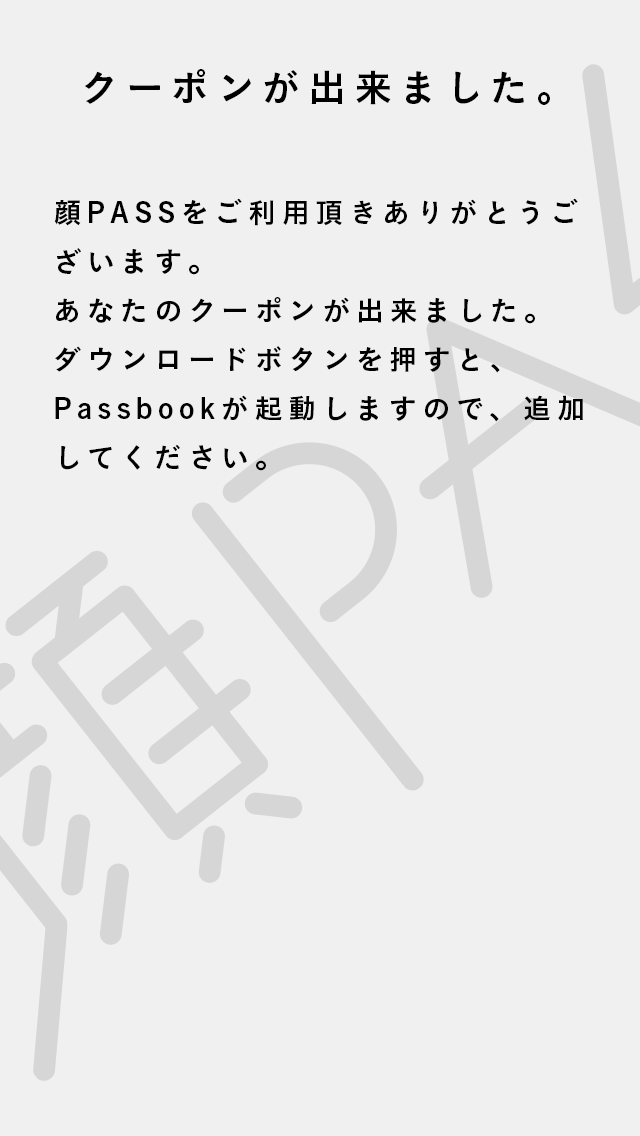
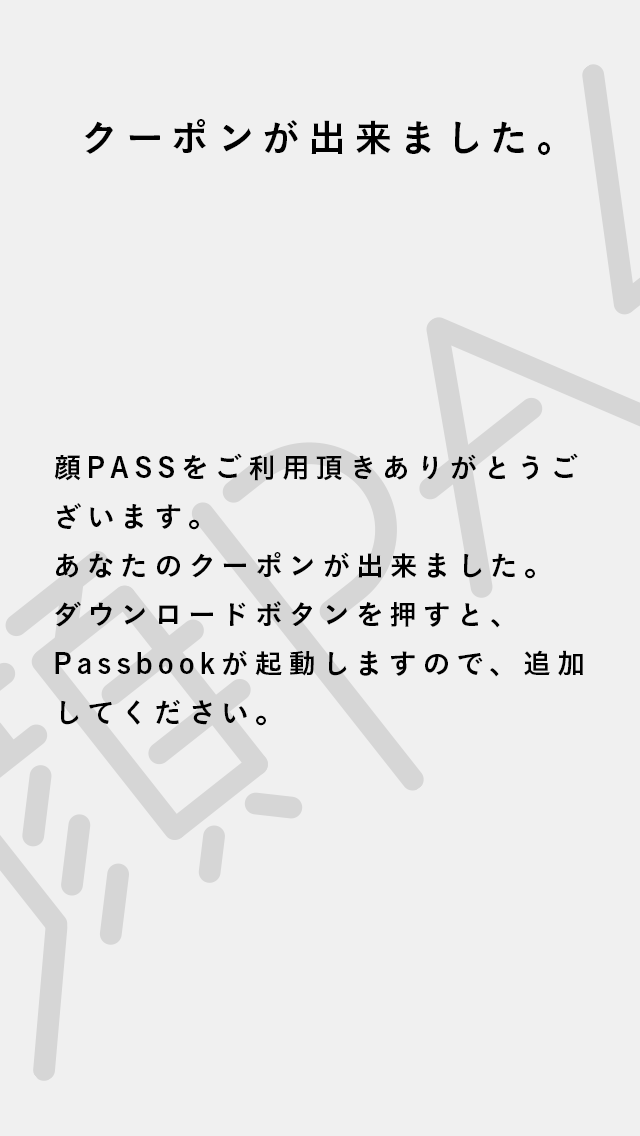
button位置

diff --git a/public/stylesheets/style.css b/public/stylesheets/style.css
@@ -25,6 +25,7 @@ body.face-new {
   background-repeat: no-repeat;
   /*background-position: top center; */
   background-size: cover;
+  height: 420px;
 }
 
 body.face-show {
@@ -32,12 +33,17 @@ body.face-show {
   background-repeat: no-repeat;
   /*background-position: top center; */
   background-size: cover;
+  height: 420px;  
 }
 
-a img {
+a#demoCapture img {
   margin: 0 auto;
   margin-top: 300px;
 }
-.demoForm{
+a#demoDownload img{
+  margin: 0 auto;
+  margin-top: 65px;
+}
+#demoForm{
   display:none;
 }

diff --git a/public/javascripts/demo.js b/public/javascripts/demo.js
@@ -2,7 +2,7 @@ $(document).ready(function(){
   $('input#demoImageBtn').change(function(){
     $('form#demoForm').trigger('submit');
   });
-  $('#demoDownload').click(function(){
+  $('#demoCapture').click(function(){
     $('input#demoImageBtn').trigger('click');
   })
 });
